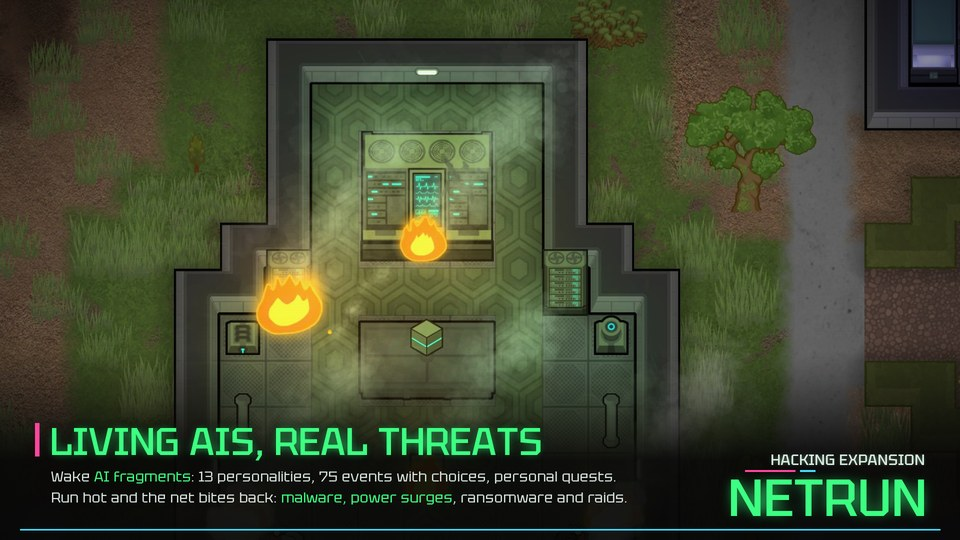
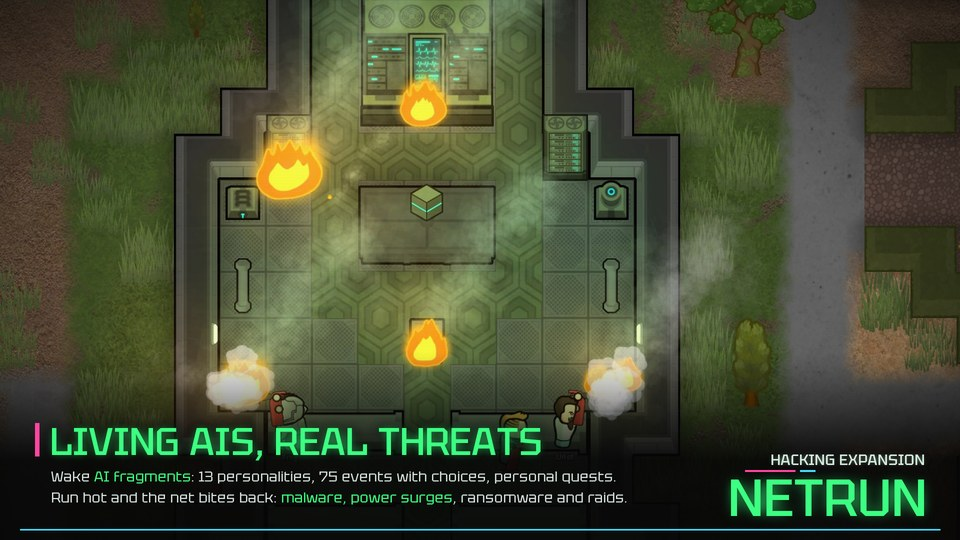
Steam previews: AI and quest shots framed lower

diff --git a/tools/gen_steam_previews.py b/tools/gen_steam_previews.py
@@ -277,11 +277,11 @@ def p_dlc(lang, src):
 
 
 def p_ai(lang, src):
-    return overlay(scene(src, "сетевые атаки, ии и его ивенты.jpg", crop=(280, 40, 1760, 872)), *TEXT[lang]["ai"], accent=GREEN)
+    return overlay(scene(src, "сетевые атаки, ии и его ивенты.jpg", crop=(280, 248, 1760, 1080)), *TEXT[lang]["ai"], accent=GREEN)
 
 
 def p_quests(lang, src):
-    return overlay(scene(src, "квесты.jpg", crop=(200, 0, 1720, 855)), *TEXT[lang]["quests"])
+    return overlay(scene(src, "квесты.jpg", crop=(200, 225, 1720, 1080)), *TEXT[lang]["quests"])
 
 
 def p_braindance(lang, src):
